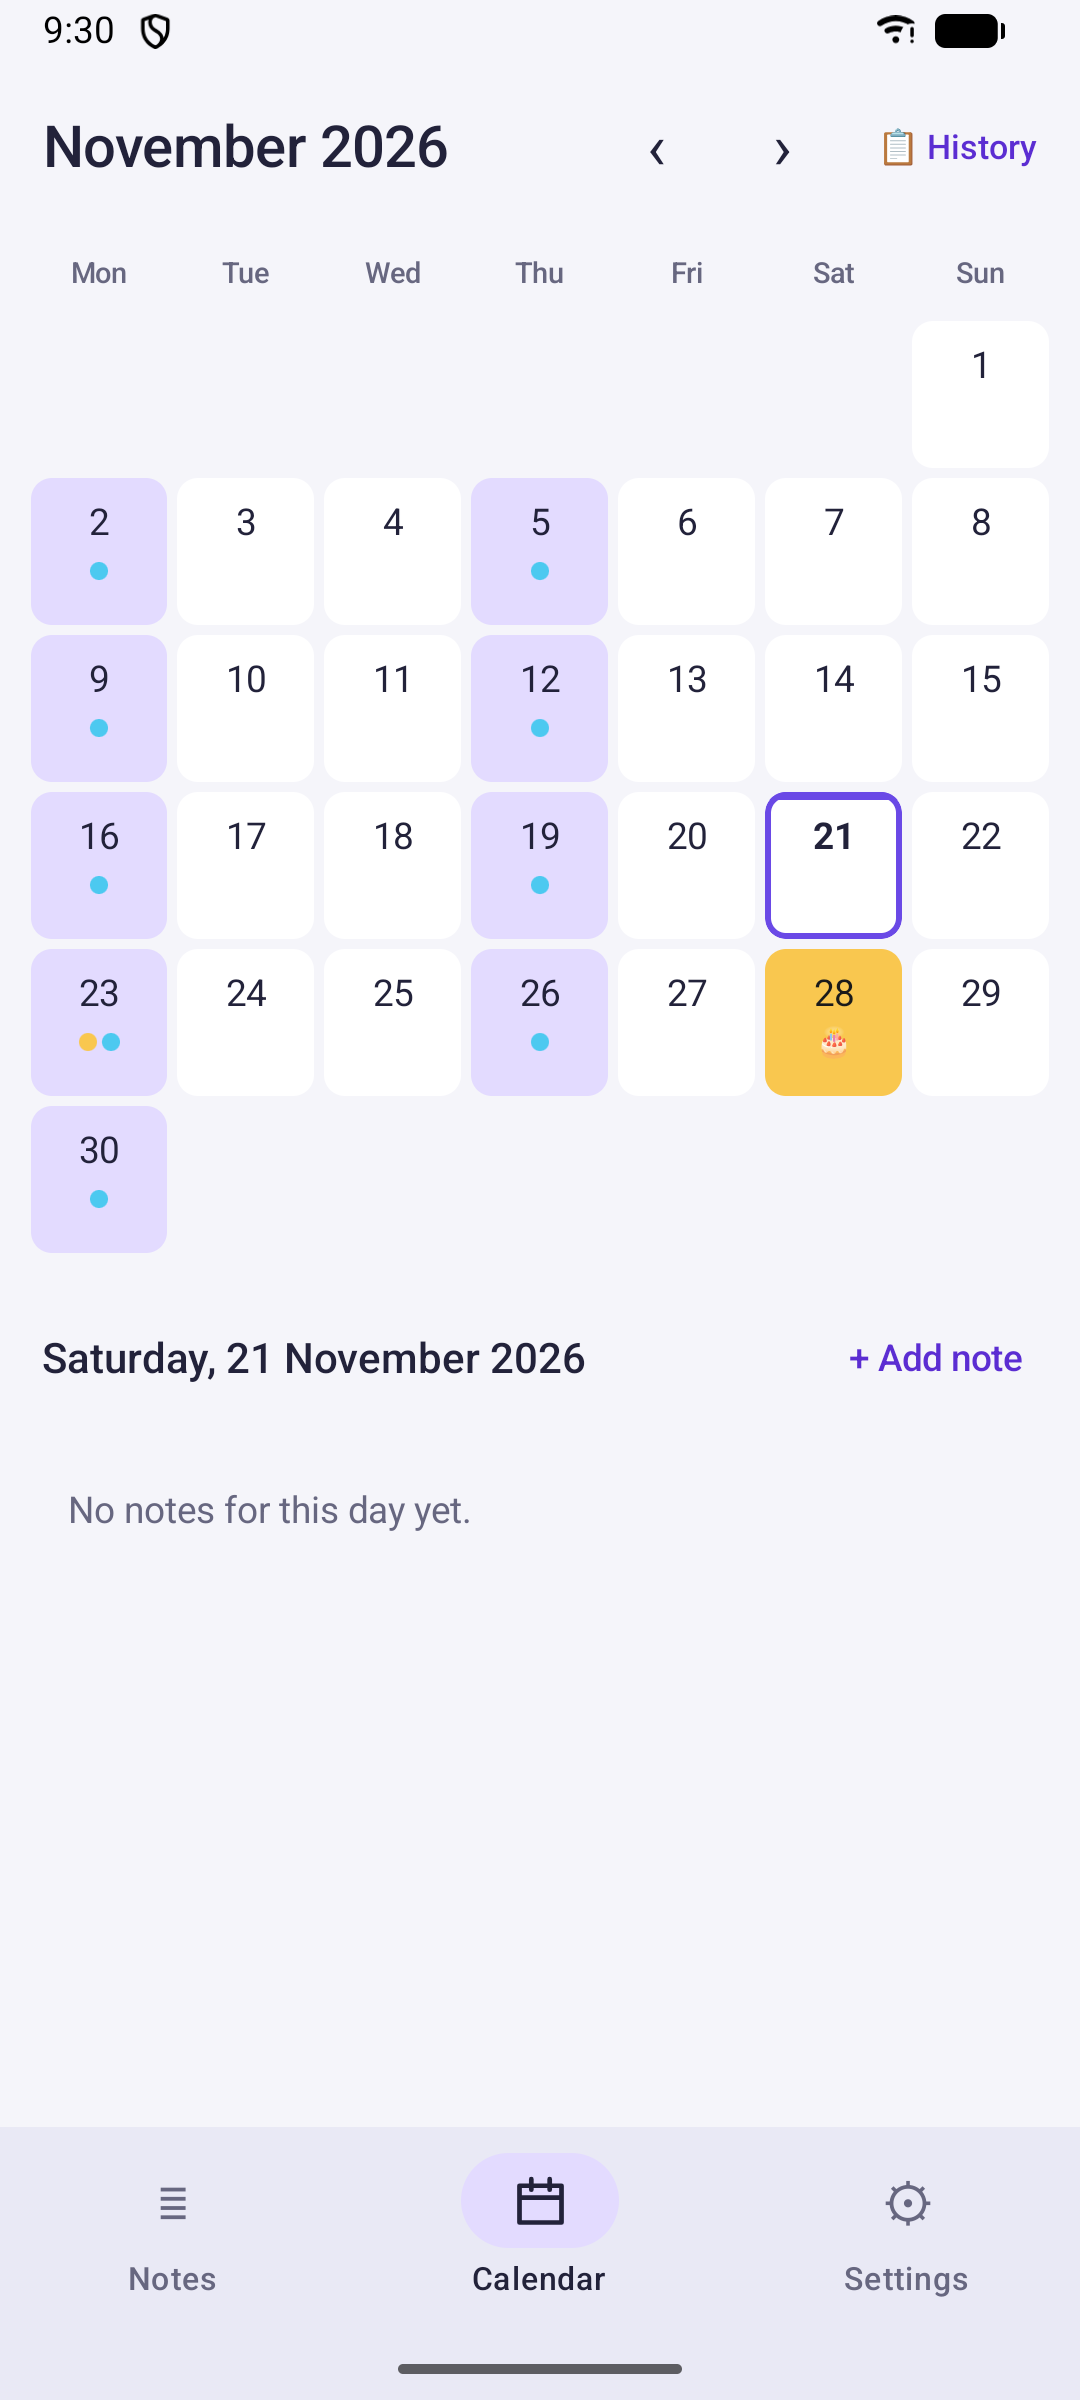
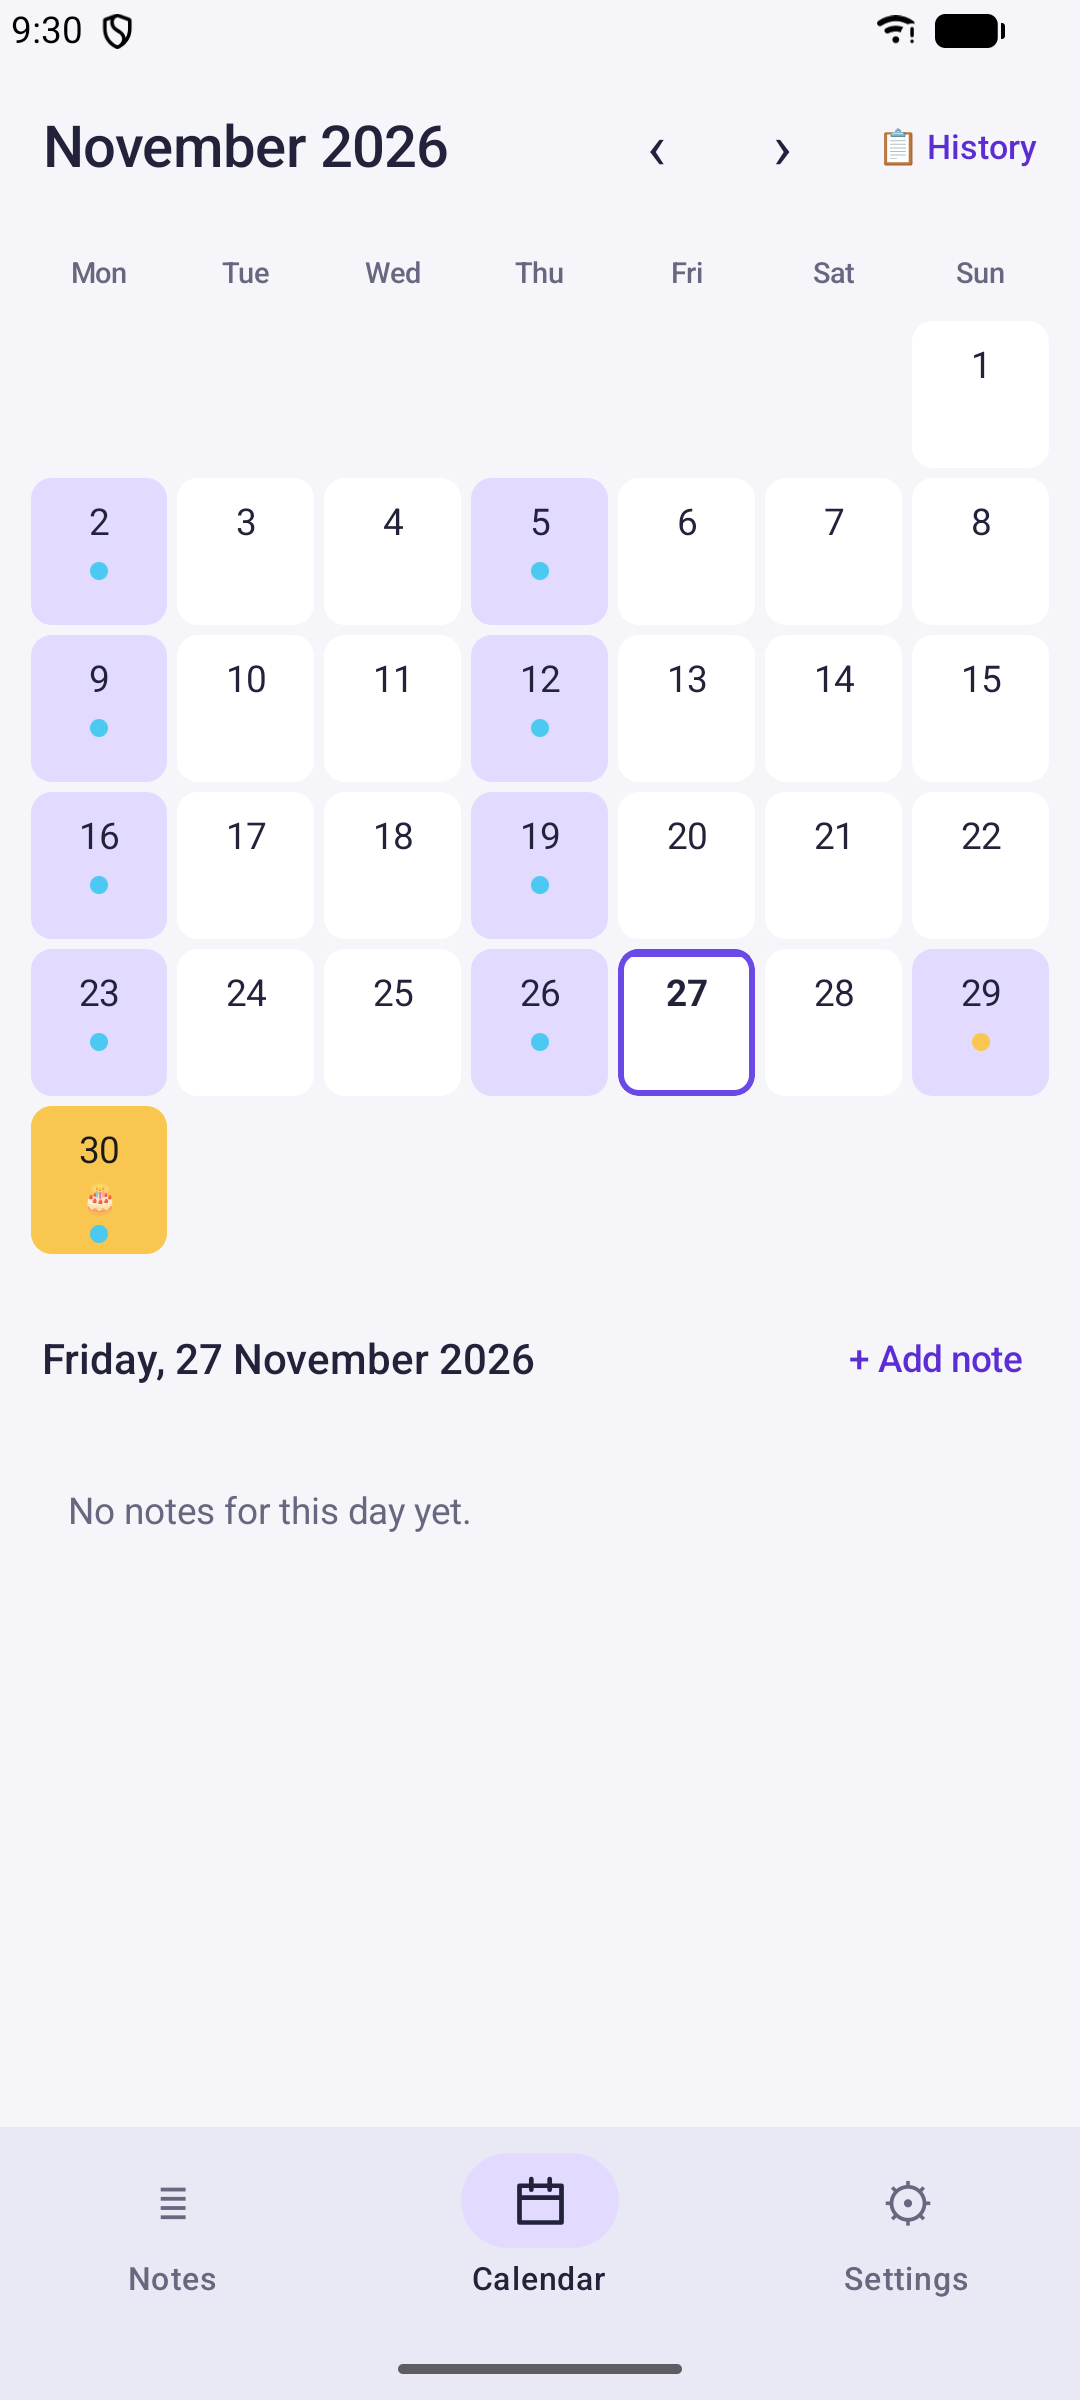
screenshots: the README's set retaken on 0.15.2, Appearance's line in it
The set was taken on 2026-11-21 for 0.15.0, and on 2026-11-22
Appearance gained the line under its switch that names the other mode's
first theme ("Tap Dark for Midnight Purple, the first of the dark
ones."), so 05-appearance and 05-appearance-dark showed a page the app
no longer draws; the website shows these pictures too.

Retaken with take_screenshots.py, both passes, all 23 stills; its
Appearance check, mended in the commit before, held in the dark pass
too. Against the committed set: Appearance 0.3 to 0.4% of the pixels,
the calendars 2.3 to 3.0% and the wide calendars 0.5 to 0.7% (today's
outline and the dates the seed works out from the day), every other
picture 0.1% or less (the bread note's date). demo.gif was not retaken:
none of its frames shows Appearance. The guide's "Current set" says so.

Checked: every picture looked at, on a contact sheet of all 23 and the
two Appearance pictures at full size; the emulator stopped after, no
process left, its screen at its own 1080 x 2400.

diff --git a/docs/screenshots/README.md b/docs/screenshots/README.md
@@ -124,10 +124,16 @@ line in Roboto, Android's own font, read from the emulator; and
 
 **Current Play set:** made 2026-11-27 for 0.15.2, each picture looked at.
 
-**Current set:** captured 2026-11-21 on the emulator, in English, for
-0.15.0 — the light set, the dark one and `demo.gif` in one run — after
-Appearance's sentence changed, with the writing picture and the table's
-third column new in it (the review panel's asks of 2026-11-15: the
+**Current set:** the light set and the dark one captured 2026-11-27 on
+the emulator, in English, for 0.15.2, so that Appearance shows the line
+under its switch that names the other mode's first theme (new on
+2026-11-22, after the set before was taken); beside it only the dates
+the seed works out from the day moved. `demo.gif` was not retaken, as
+none of its frames shows Appearance. The set before it was captured
+2026-11-21 for 0.15.0 — the light set, the dark one and `demo.gif` in
+one run — after Appearance's sentence changed, with the writing picture
+and the table's third column new in it (the review panel's asks of
+2026-11-15: the
 editor had been shown only at rest, its tools out of sight, and two
 columns filled a third of the screen). The notebook marks the
 day's reminder as already shown, so a day the series falls on does not
